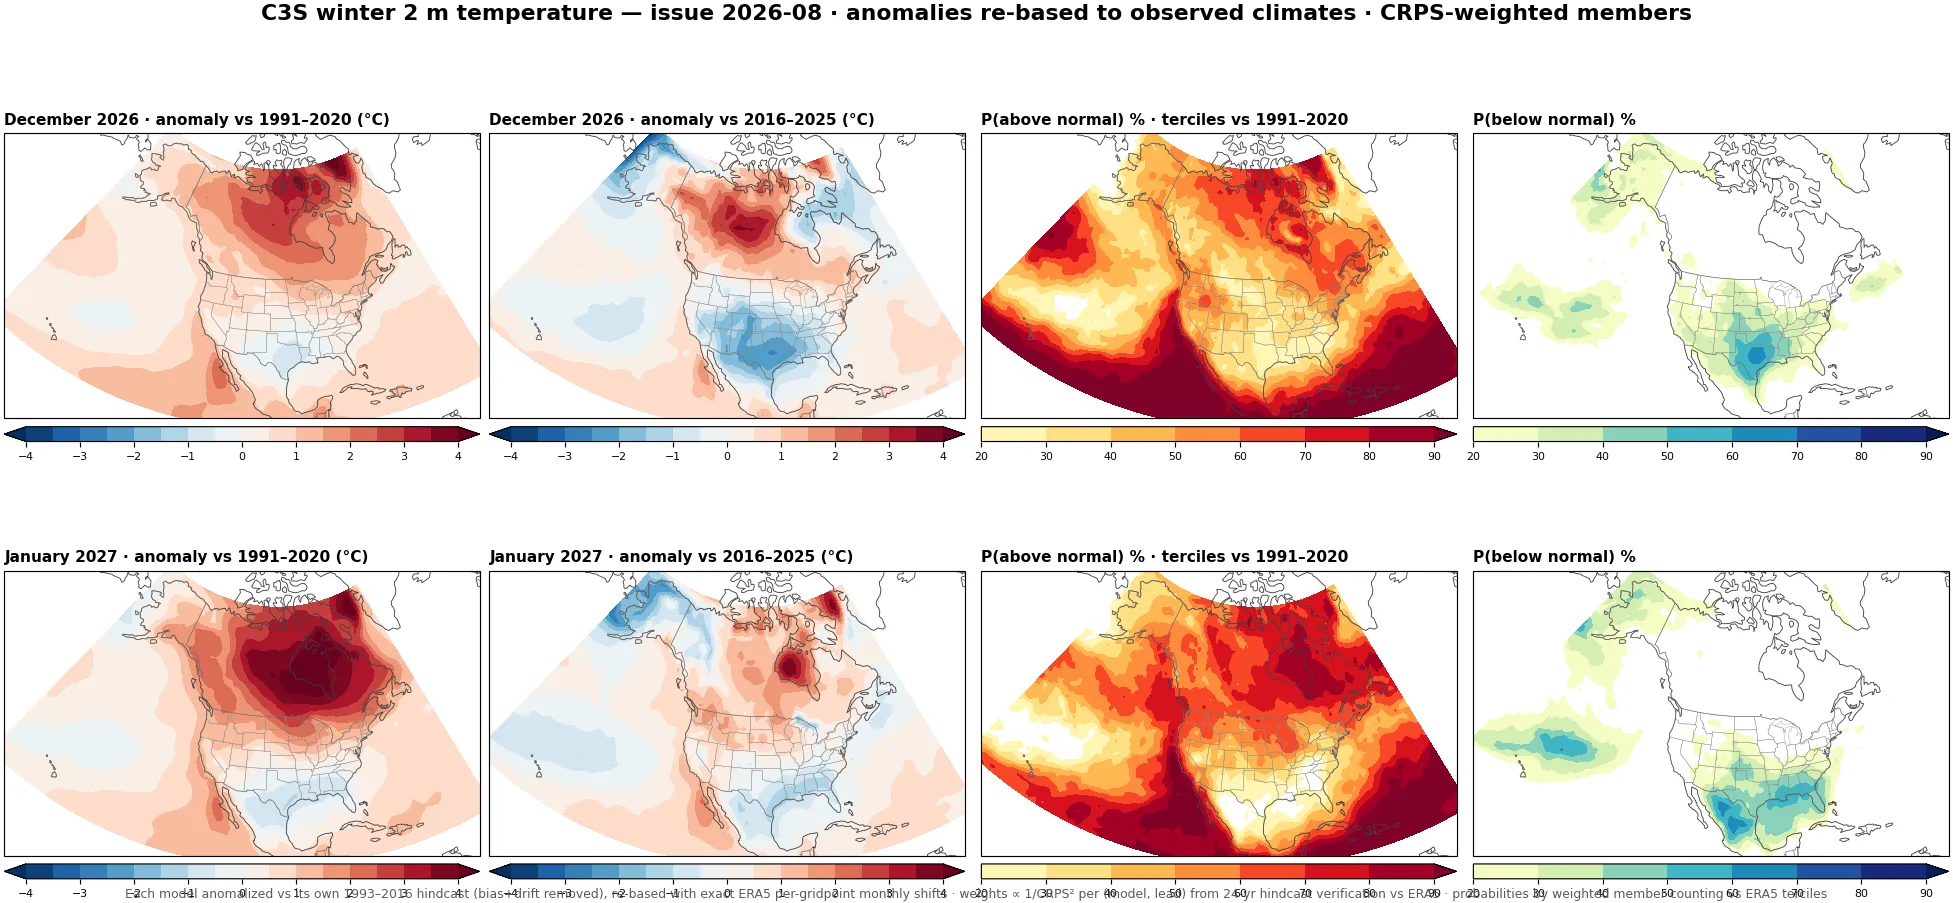
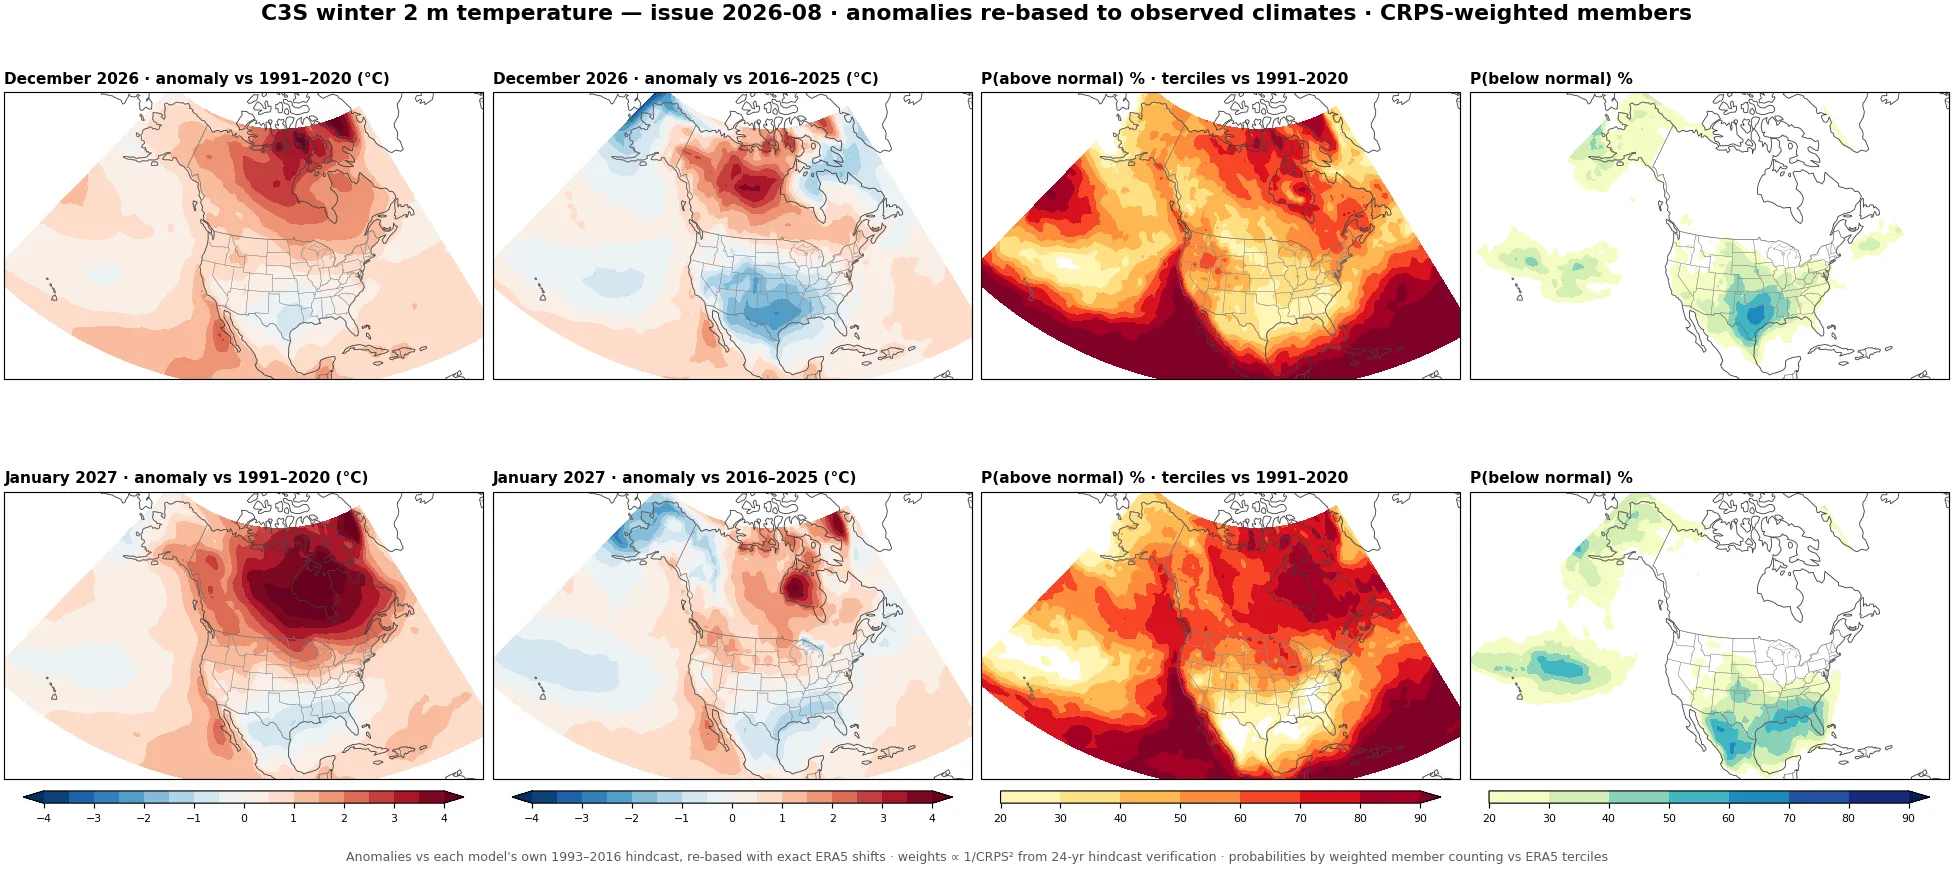
Winter maps: shared per-column colorbars, reserved footer margin — larger maps, no label overlap

diff --git a/scripts/sst/c3s_t2m_winter.py b/scripts/sst/c3s_t2m_winter.py
@@ -242,11 +242,13 @@ MON = {12: "December", 1: "January", 2: "February"}
 
 def render(issue, prods, lat, lon, out: Path):
     n = len(prods)
-    fig, axes = plt.subplots(n, 4, figsize=(18.6, 4.3 * n),
+    fig, axes = plt.subplots(n, 4, figsize=(18.6, 4.15 * n),
                              constrained_layout=True,
                              subplot_kw={"projection": ccrs.LambertConformal(
                                  central_longitude=-100, central_latitude=45)})
     axes = np.atleast_2d(axes)
+    fig.get_layout_engine().set(rect=(0, 0.05, 1, 1))
+    col_cf = [None] * 4
     for i, ((m, yr, L), P) in enumerate(sorted(prods.items(), key=lambda kv: (kv[0][1], kv[0][0]))):
         panels = [
             (P["mean"]["9120"], np.linspace(-4, 4, 17), "RdBu_r",
@@ -268,19 +270,22 @@ def render(issue, prods, lat, lon, out: Path):
             ax.add_feature(cfeature.BORDERS, lw=0.4, edgecolor="0.35", facecolor="none")
             ax.add_feature(cfeature.STATES, lw=0.25, edgecolor="0.55", facecolor="none")
             ax.set_title(title, fontsize=10.5, fontweight="bold", loc="left")
-            cb = fig.colorbar(cf, ax=ax, orientation="horizontal",
-                              pad=0.02, fraction=0.05, aspect=32)
-            cb.ax.tick_params(labelsize=7.5)
+            col_cf[j] = cf
         wtxt = "  ".join(f"{k.split()[0]} {v:.2f}" for k, v in P["weights"].items())
         axes[i, 0].set_xlabel(f"lead {L} · {P['nmem']} weighted members · w: {wtxt}",
-                              fontsize=7.5, color="0.3", labelpad=3)
+                              fontsize=7.5, color="0.3", labelpad=2)
+    # one shared colorbar per column, under the bottom row
+    for j, cf in enumerate(col_cf):
+        if cf is not None:
+            cb = fig.colorbar(cf, ax=list(axes[:, j]), orientation="horizontal",
+                              pad=0.015, fraction=0.035, aspect=36, shrink=0.92)
+            cb.ax.tick_params(labelsize=7.5)
     fig.suptitle(f"C3S winter 2 m temperature — issue {issue[:4]}-{issue[4:]} · "
                  "anomalies re-based to observed climates · CRPS-weighted members",
                  fontsize=15, fontweight="bold")
-    fig.text(0.5, 0.005,
-             "Each model anomalized vs its own 1993–2016 hindcast (bias+drift removed), re-based with exact ERA5 per-gridpoint monthly shifts · "
-             "weights ∝ 1/CRPS² per (model, lead) from 24-yr hindcast verification vs ERA5 · probabilities by weighted member counting vs ERA5 terciles",
-             fontsize=8.5, ha="center", color="0.35")
+    fig.text(0.5, 0.012,
+             "Anomalies vs each model's own 1993–2016 hindcast, re-based with exact ERA5 shifts · weights ∝ 1/CRPS² from 24-yr hindcast verification · probabilities by weighted member counting vs ERA5 terciles",
+             fontsize=8.6, ha="center", color="0.35")
     out.parent.mkdir(parents=True, exist_ok=True)
     fig.savefig(out, dpi=105)
     plt.close(fig)

diff --git a/scripts/sst/c3s_snow_winter.py b/scripts/sst/c3s_snow_winter.py
@@ -133,10 +133,13 @@ def build(issue: str):
 
 def render(issue, prods, lat, lon, models, out: Path):
     n = len(prods)
-    fig, axes = plt.subplots(n, 3, figsize=(15.0, 4.6 * n),
+    fig, axes = plt.subplots(n, 3, figsize=(15.0, 4.3 * n),
+                             constrained_layout=True,
                              subplot_kw={"projection": ccrs.LambertConformal(
                                  central_longitude=-100, central_latitude=45)})
     axes = np.atleast_2d(axes)
+    fig.get_layout_engine().set(rect=(0, 0.05, 1, 1))
+    col_cf = [None] * 3
     neutral = {90: 10, 95: 5, 99: 1}
     for i, ((m, yr, L), P) in enumerate(sorted(prods.items(), key=lambda kv: (kv[0][1], kv[0][0]))):
         for j, p in enumerate(PCTLS):
@@ -151,16 +154,17 @@ def render(issue, prods, lat, lon, models, out: Path):
             ax.set_title(f"{MON[m]} {yr} · P(snowfall > hindcast p{p}) %  "
                          f"[neutral {neutral[p]}%]",
                          fontsize=10.5, fontweight="bold", loc="left")
-            cb = fig.colorbar(cf, ax=ax, orientation="horizontal",
-                              pad=0.02, fraction=0.05, aspect=32)
+            col_cf[j] = cf
+    for j, cf in enumerate(col_cf):
+        if cf is not None:
+            cb = fig.colorbar(cf, ax=list(axes[:, j]), orientation="horizontal",
+                              pad=0.015, fraction=0.035, aspect=36, shrink=0.92)
             cb.ax.tick_params(labelsize=7.5)
     fig.suptitle(f"C3S winter snowfall extremes — issue {issue[:4]}-{issue[4:]} · "
                  f"{', '.join(models)}", fontsize=14.5, fontweight="bold")
-    fig.text(0.5, 0.005,
-             "Member fraction exceeding each model's OWN 1993–2016 hindcast percentile (per gridpoint, per valid month), averaged across models · "
-             "no distribution assumed · thresholds reference the 1993–2016 model climate",
-             fontsize=8.5, ha="center", color="0.35")
-    fig.tight_layout(rect=(0, 0.015, 1, 0.955))
+    fig.text(0.5, 0.012,
+             "Member fraction exceeding each model's OWN 1993–2016 hindcast percentile (per gridpoint, per month), averaged across models · no distribution assumed",
+             fontsize=8.6, ha="center", color="0.35")
     out.parent.mkdir(parents=True, exist_ok=True)
     fig.savefig(out, dpi=105)
     plt.close(fig)
